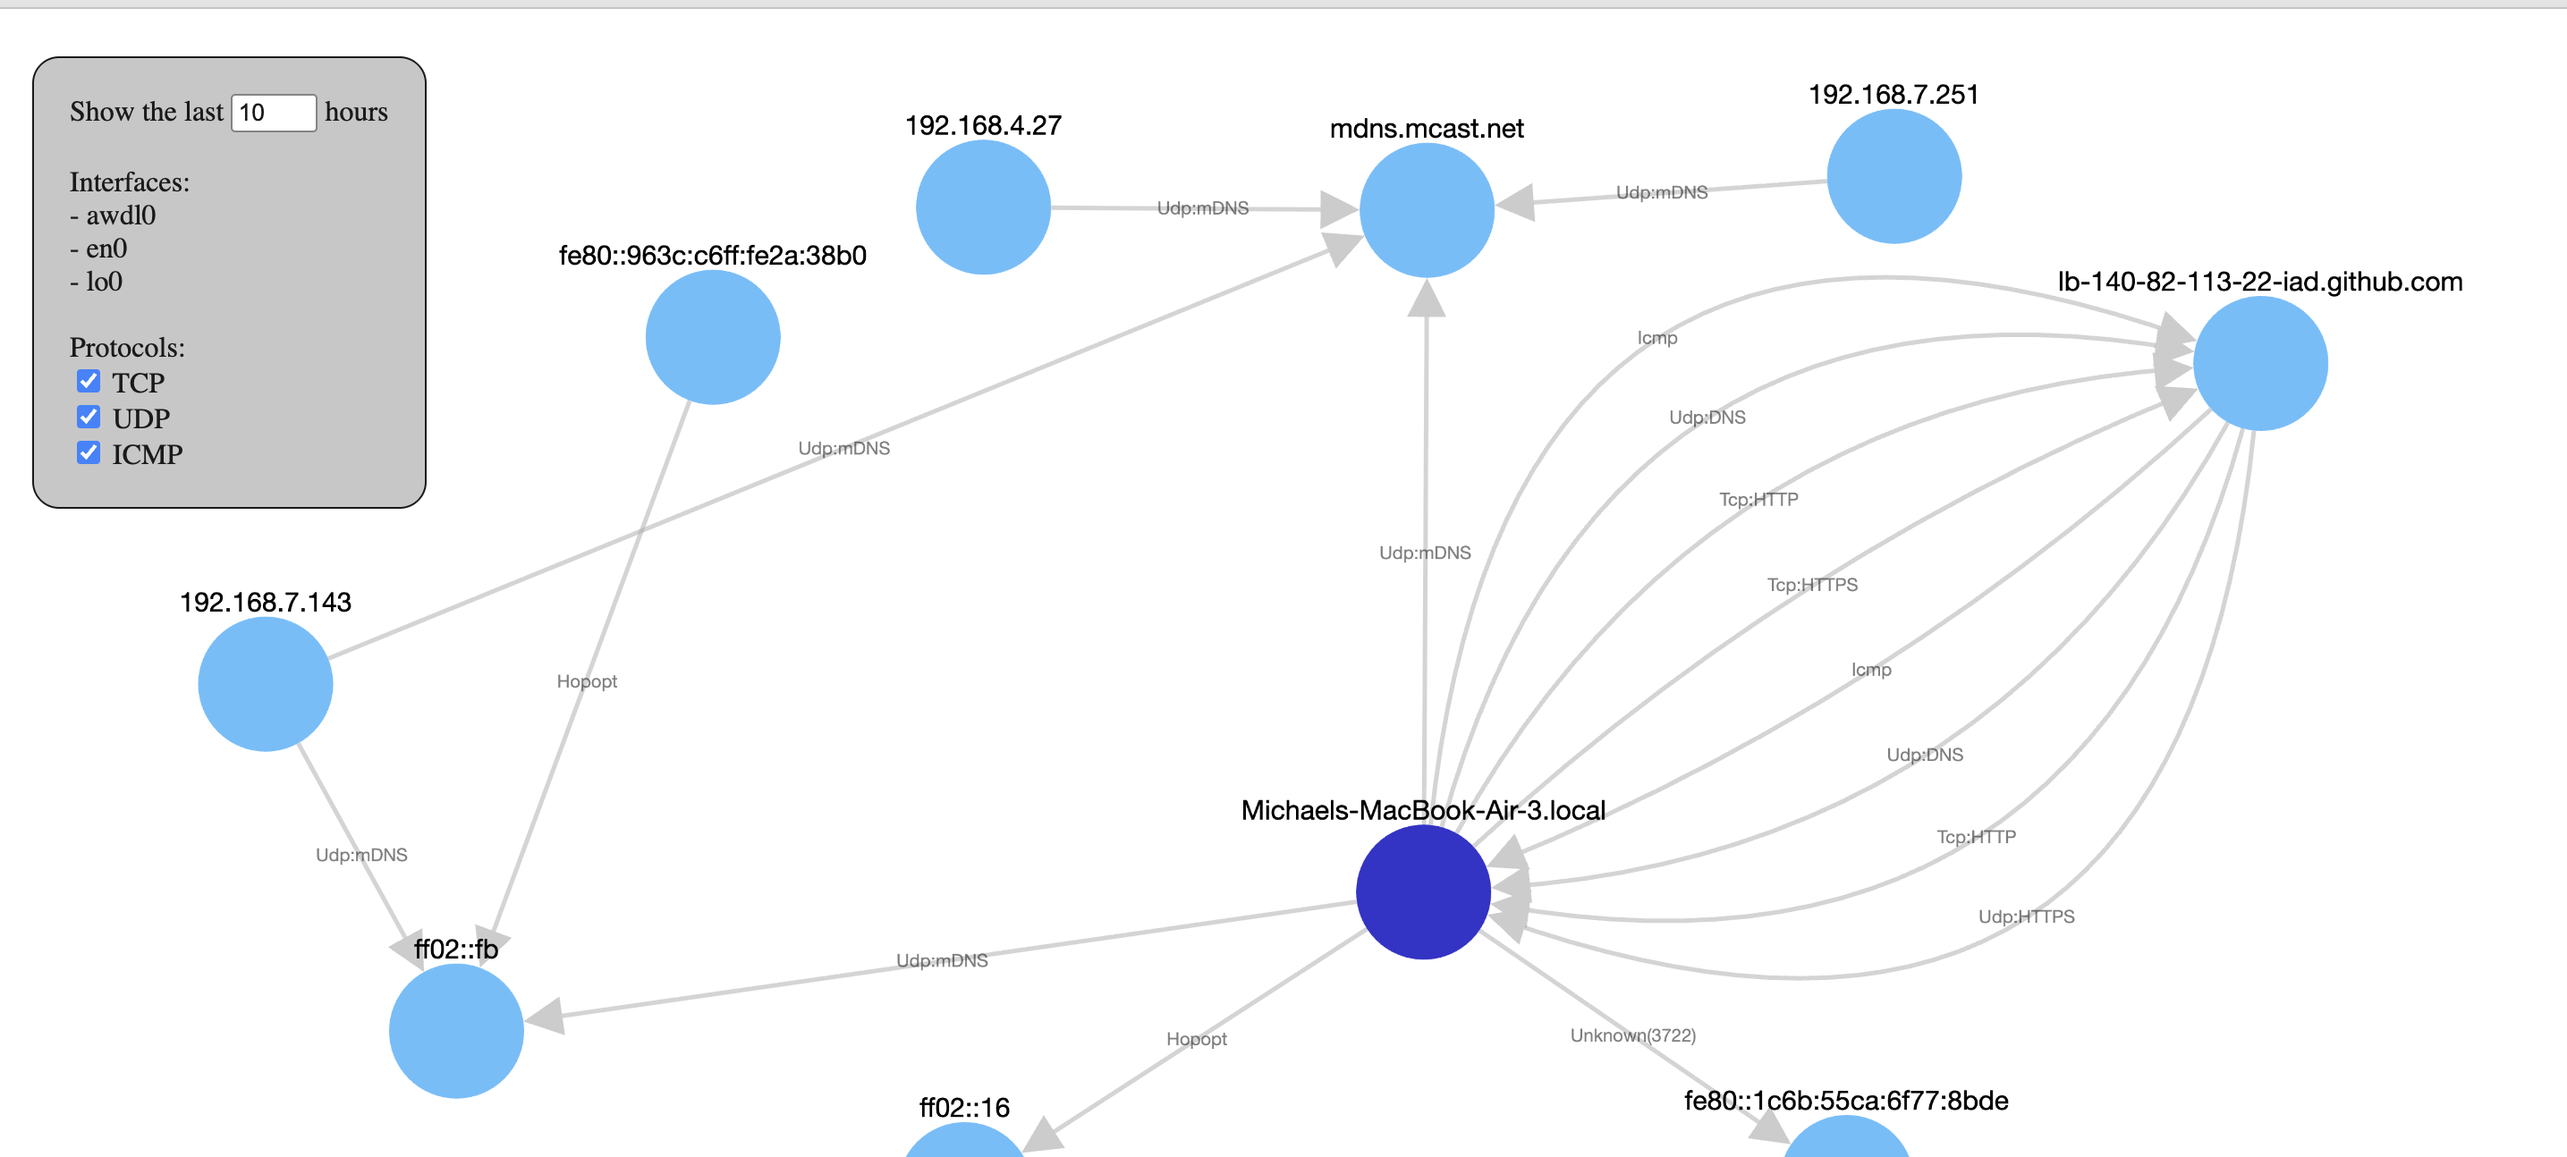
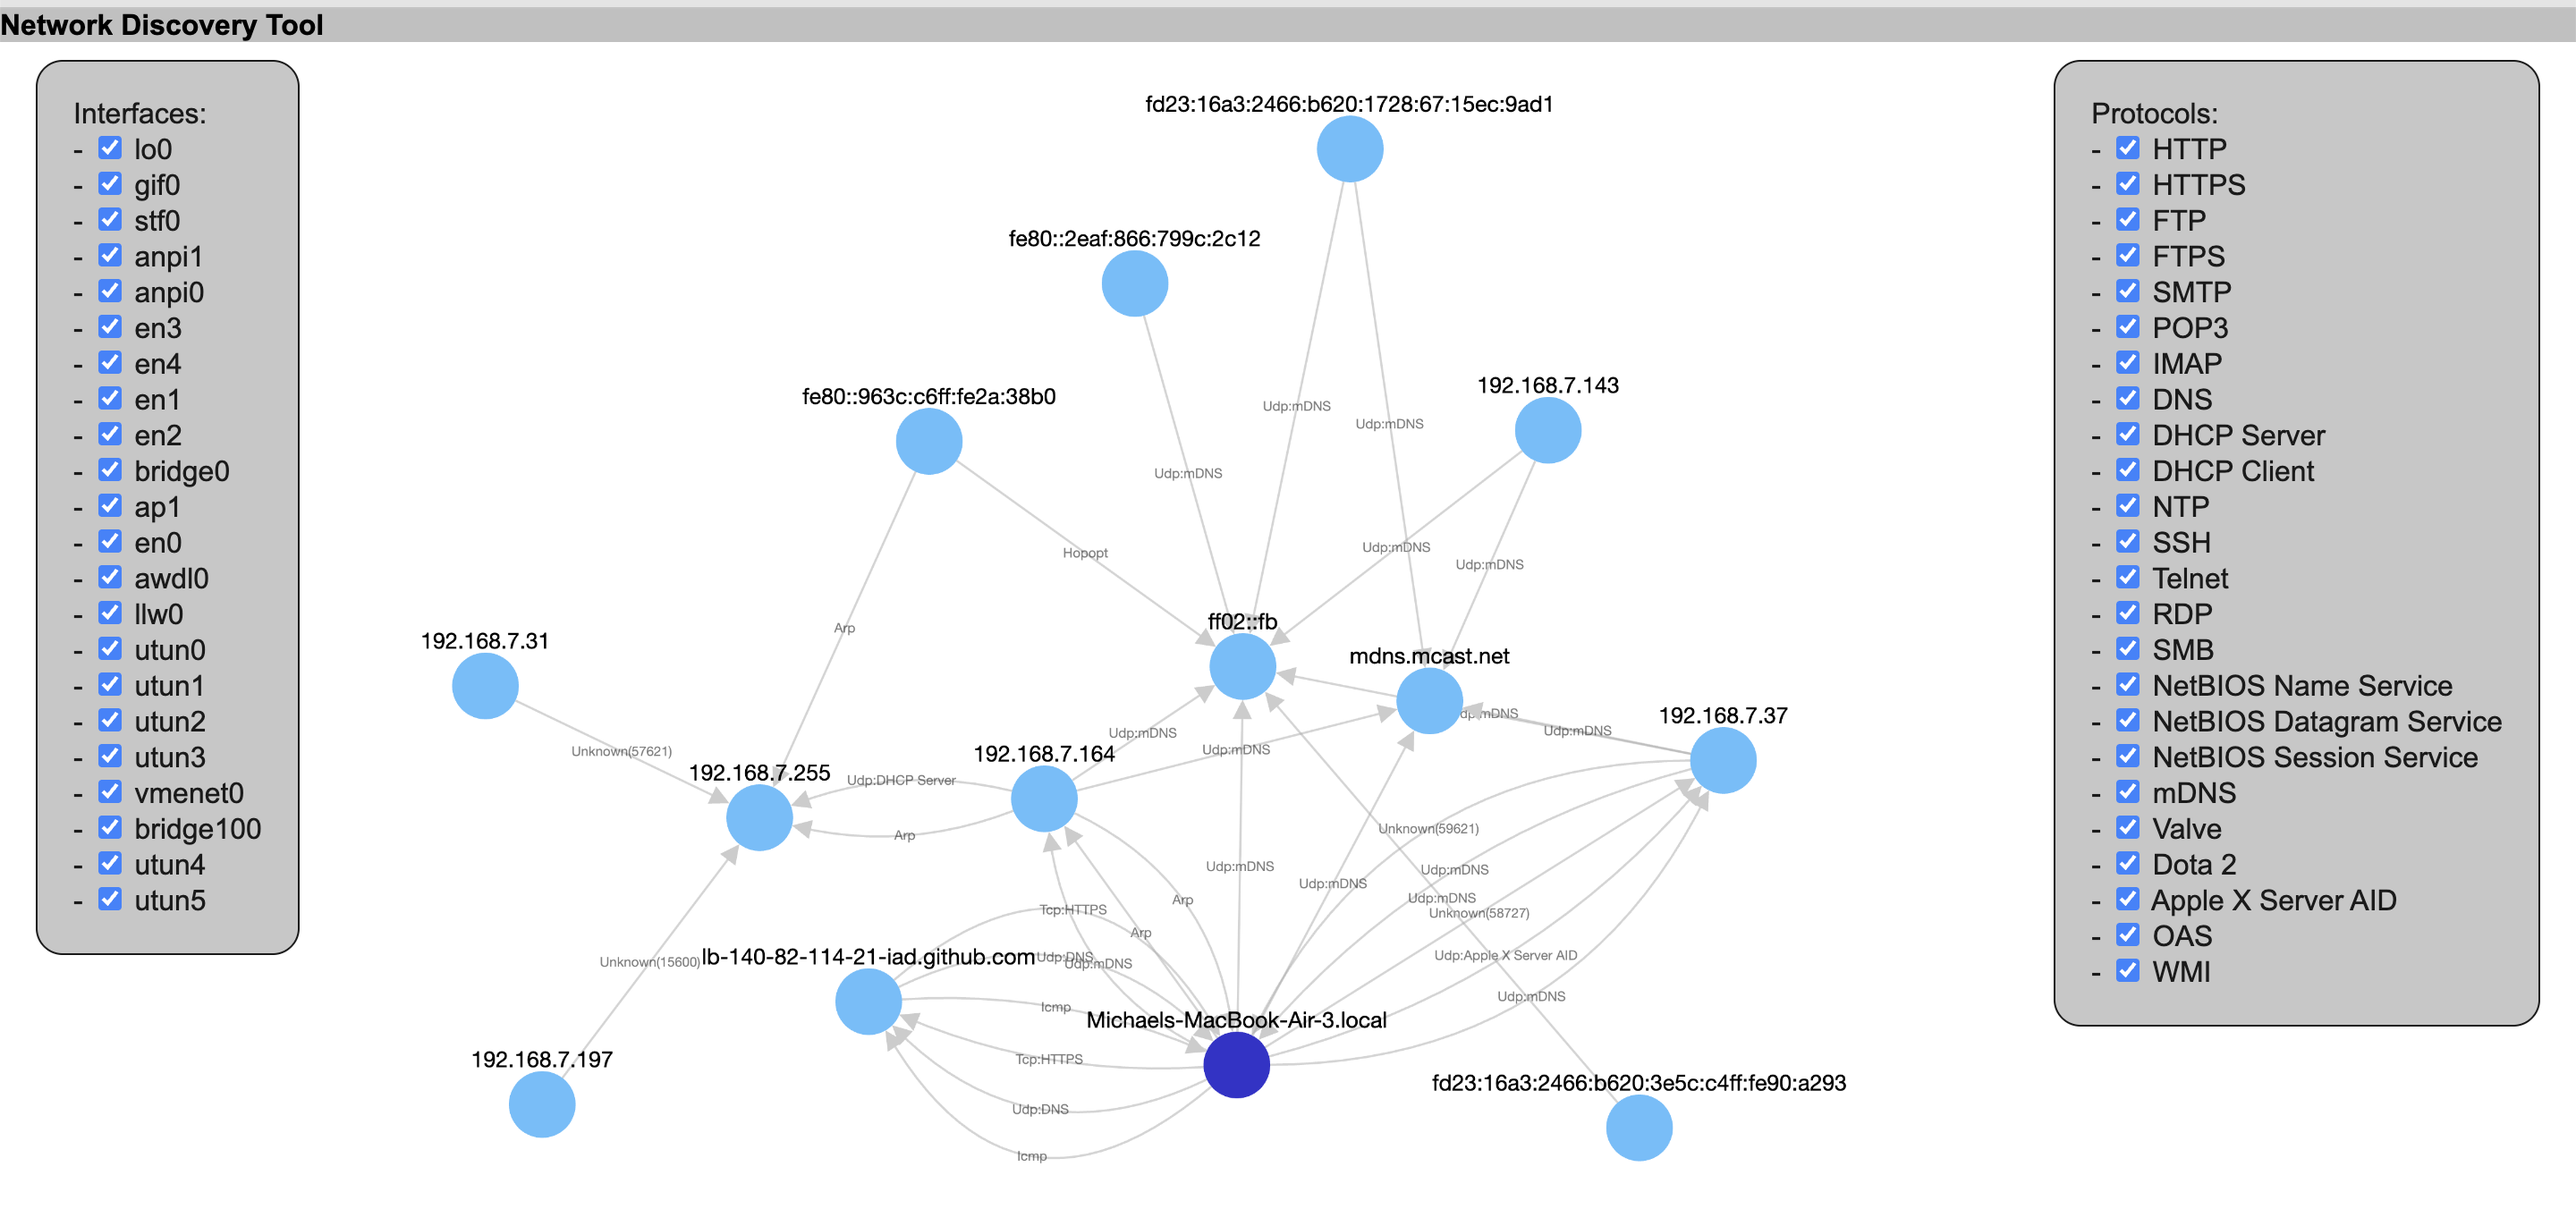
fix: clippy

diff --git a/templates/index.html b/templates/index.html
@@ -3,7 +3,19 @@
 <head>
   <title>Network Discovery Tool</title>
   <style>
-    #toolbar {
+    body {
+      font-family: Arial, sans-serif;
+      margin: 0;
+      padding: 0;
+      background-color: #ffffff;
+    }
+    #top_toolbar {
+      position: relative;
+      text-align: left;
+      margin-bottom: 10px;
+      background-color: #c0c0c0;
+    }
+    #left_toolbar {
       position: absolute; /* Positioned within the container */
       z-index: 1; /* Lower z-index means it's underneath */
       left: 20px;
@@ -13,8 +25,20 @@
       opacity: 0.9;
       border-radius: 15px; /* Applies a 15px radius to all four corners */
     }
+    #right_toolbar {
+      position: absolute; /* Positioned within the container */
+      z-index: 1; /* Lower z-index means it's underneath */
+      right: 20px;
+      border: 1px solid black;
+      padding: 20px;
+      background-color: #c0c0c0;
+      opacity: 0.9;
+      border-radius: 15px; /* Applies a 15px radius to all four corners */
+    }
     #container {
-      width: 100%;
+      position: relative;
+      margin: 0 auto;
+      width: 80%;
       height: 100vh;
       background-color: #ffffff;
     }
@@ -23,25 +47,23 @@
 
 </head>
 <body>
-  <div>
+
+  <div id="top_toolbar">
+    <b>Network Discovery Tool</b>
   </div>
-  <br/>
-  
-  <div id="toolbar">
-    Show the last <input type="number" id="num-hours" value="1" min="1" max="24" /> hours
 
-    <br><br>
-
+  <div id="left_toolbar">
     Interfaces:
 
     <br>
 
     {% for interface in interfaces %}
-      - {{ interface }} <br>
+      - <input type="checkbox" id="{{ interface }}" checked /> {{ interface }} <br>
     {% endfor %}
 
-    <br>
+  </div>
 
+  <div id="right_toolbar">
     Protocols:
 
     <br>
@@ -49,8 +71,8 @@
     {% for protocol in protocols %}
       - <input type="checkbox" id="{{ protocol }}" checked /> {{ protocol }} <br>
     {% endfor %}
-
   </div>
+
   <div id="container"></div>
 
   <script>

diff --git a/src/web/mod.rs b/src/web/mod.rs
@@ -1,5 +1,6 @@
 use actix_web::{HttpResponse, Responder, get, web::Data};
 use dns_lookup::get_hostname;
+use pnet::datalink;
 use tera::{Context, Tera};
 
 use crate::network::protocol::ProtocolPort;
@@ -15,24 +16,8 @@ pub struct Node {
 }
 
 fn get_interfaces() -> Vec<String> {
-    let query = r#"
-        SELECT interface FROM endpoints GROUP BY interface;
-    "#;
-
-    let conn = new_connection();
-    let mut stmt = conn.prepare(query).expect("Failed to prepare statement");
-
-    let rows = stmt
-        .query_map([], |row| Ok((row.get::<_, String>("interface")?,)))
-        .expect("Failed to execute query");
-
-    let interfaces = rows
-        .filter_map(|row| match row.as_ref() {
-            Ok(r) => Some(r.0.clone()),
-            Err(_e) => None,
-        })
-        .collect::<Vec<String>>();
-    interfaces
+    let interfaces = datalink::interfaces();
+    interfaces.into_iter().map(|iface| iface.name).collect()
 }
 
 fn get_nodes() -> Vec<Node> {
@@ -85,22 +70,19 @@ fn get_nodes() -> Vec<Node> {
         })
         .expect("Failed to execute query");
 
-    let communications = rows
-        .filter_map(|row| match row.as_ref() {
-            Ok(r) => Some(Node {
-                src_hostname: r.0.clone(),
-                dst_hostname: r.1.clone(),
-                sub_protocol: r.2.clone(),
-            }),
-            Err(_e) => None,
-        })
-        .collect::<Vec<Node>>();
-
-    communications
+    rows.filter_map(|row| match row.as_ref() {
+        Ok(r) => Some(Node {
+            src_hostname: r.0.clone(),
+            dst_hostname: r.1.clone(),
+            sub_protocol: r.2.clone(),
+        }),
+        Err(_e) => None,
+    })
+    .collect::<Vec<Node>>()
 }
 
-fn get_endpoints(communications: &Vec<Node>) -> Vec<String> {
-    let endpoints = communications.iter().fold(vec![], |mut acc, comm| {
+fn get_endpoints(communications: &[Node]) -> Vec<String> {
+    communications.iter().fold(vec![], |mut acc, comm| {
         if !acc.contains(&comm.src_hostname) {
             acc.push(comm.src_hostname.clone());
         }
@@ -108,8 +90,7 @@ fn get_endpoints(communications: &Vec<Node>) -> Vec<String> {
             acc.push(comm.dst_hostname.clone());
         }
         acc
-    });
-    endpoints
+    })
 }
 
 // Define a handler function for the web request

diff --git a/src/network/protocol.rs b/src/network/protocol.rs
@@ -35,33 +35,33 @@ macro_rules! define_protocol_ports {
 // Use the macro to define everything in one place
 define_protocol_ports! {
     // Web protocols
-    (HTTP, 80, "HTTP"),
-    (HTTPS, 443, "HTTPS"),
+    (Http, 80, "HTTP"),
+    (Https, 443, "HTTPS"),
     // File transfer
-    (FTP, 21, "FTP"),
-    (FTPS, 990, "FTPS"),
+    (Ftp, 21, "FTP"),
+    (Ftps, 990, "FTPS"),
     // Email
-    (SMTP, 25, "SMTP"),
-    (POP3, 110, "POP3"),
-    (IMAP, 143, "IMAP"),
+    (Smtp, 25, "SMTP"),
+    (Pop3, 110, "POP3"),
+    (Imap, 143, "IMAP"),
     // Domain and network services
-    (DNS, 53, "DNS"),
+    (Dns, 53, "DNS"),
     (DhcpServer, 67, "DHCP Server"),
     (DhcpClient, 68, "DHCP Client"),
-    (NTP, 123, "NTP"),
+    (Ntp, 123, "NTP"),
     // Remote access
-    (SSH, 22, "SSH"),
+    (Ssh, 22, "SSH"),
     (Telnet, 23, "Telnet"),
-    (RDP, 3389, "RDP"),
+    (Rdp, 3389, "RDP"),
     // Windows networking
-    (SMB, 445, "SMB"),
-    (NBNS, 137, "NetBIOS Name Service"),
-    (NBDG, 138, "NetBIOS Datagram Service"),
-    (NBSS, 139, "NetBIOS Session Service"),
-    (MDNS, 5353, "mDNS"),
+    (Smb, 445, "SMB"),
+    (Nbns, 137, "NetBIOS Name Service"),
+    (Nbdg, 138, "NetBIOS Datagram Service"),
+    (Nbss, 139, "NetBIOS Session Service"),
+    (Mdns, 5353, "mDNS"),
     (Valve, 27020, "Valve"),
     (Dota2, 27015, "Dota 2"),
     (AppleXServerAid, 3722, "Apple X Server AID"),
-    (OAS, 58726, "OAS"),
-    (WMI, 59632, "Windows Management Instrumentation"),
+    (Oas, 58726, "OAS"),
+    (Wmi, 59632, "WMI"),
 }

diff --git a/src/network/communication.rs b/src/network/communication.rs
@@ -33,19 +33,18 @@ impl Communication {
             ip_version: packet_wrapper.get_ip_version(),
             ip_header_protocol: packet_wrapper.get_header_protocol(),
             sub_protocol: None,
-            ..Default::default()
         };
-        if let Some(ip_header_protocol) = &communication.ip_header_protocol {
-            if ip_header_protocol == "Tcp" || ip_header_protocol == "Udp" {
-                communication.sub_protocol = communication
-                    .destination_port
-                    .and_then(|port| packet_wrapper.get_sub_protocol(port))
-                    .or_else(|| {
-                        communication
-                            .source_port
-                            .and_then(|port| packet_wrapper.get_sub_protocol(port))
-                    });
-            }
+        if let Some(ip_header_protocol) = &communication.ip_header_protocol
+            && (ip_header_protocol == "Tcp" || ip_header_protocol == "Udp")
+        {
+            communication.sub_protocol = communication
+                .destination_port
+                .and_then(|port| packet_wrapper.get_sub_protocol(port))
+                .or_else(|| {
+                    communication
+                        .source_port
+                        .and_then(|port| packet_wrapper.get_sub_protocol(port))
+                });
         }
         communication
     }

diff --git a/src/network/mod.rs b/src/network/mod.rs
@@ -129,10 +129,6 @@ impl<'a> PacketWrapper<'a> {
     }
 
     fn get_sub_protocol(&self, port: u16) -> Option<String> {
-        if let Some(protocol_port) = ProtocolPort::from_u16(port) {
-            Some(format!("{}", protocol_port))
-        } else {
-            None
-        }
+        ProtocolPort::from_u16(port).map(|protocol_port| format!("{}", protocol_port))
     }
 }
